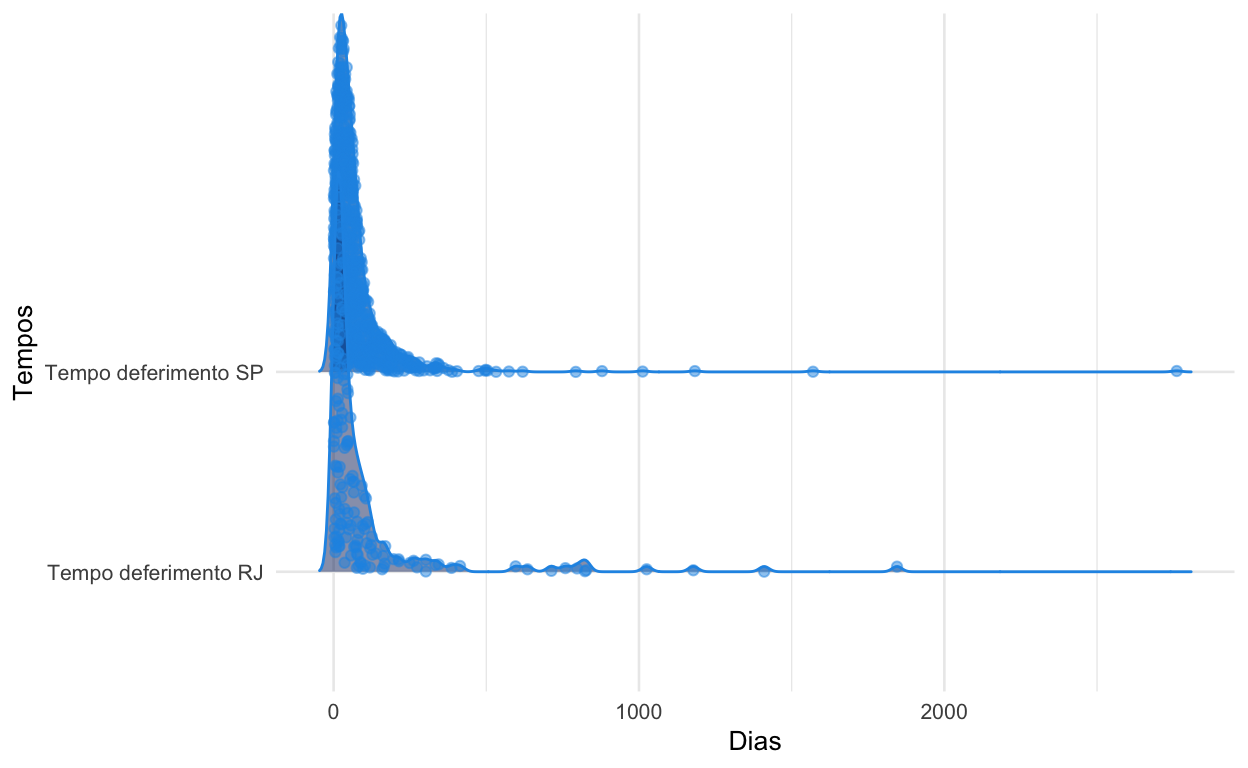
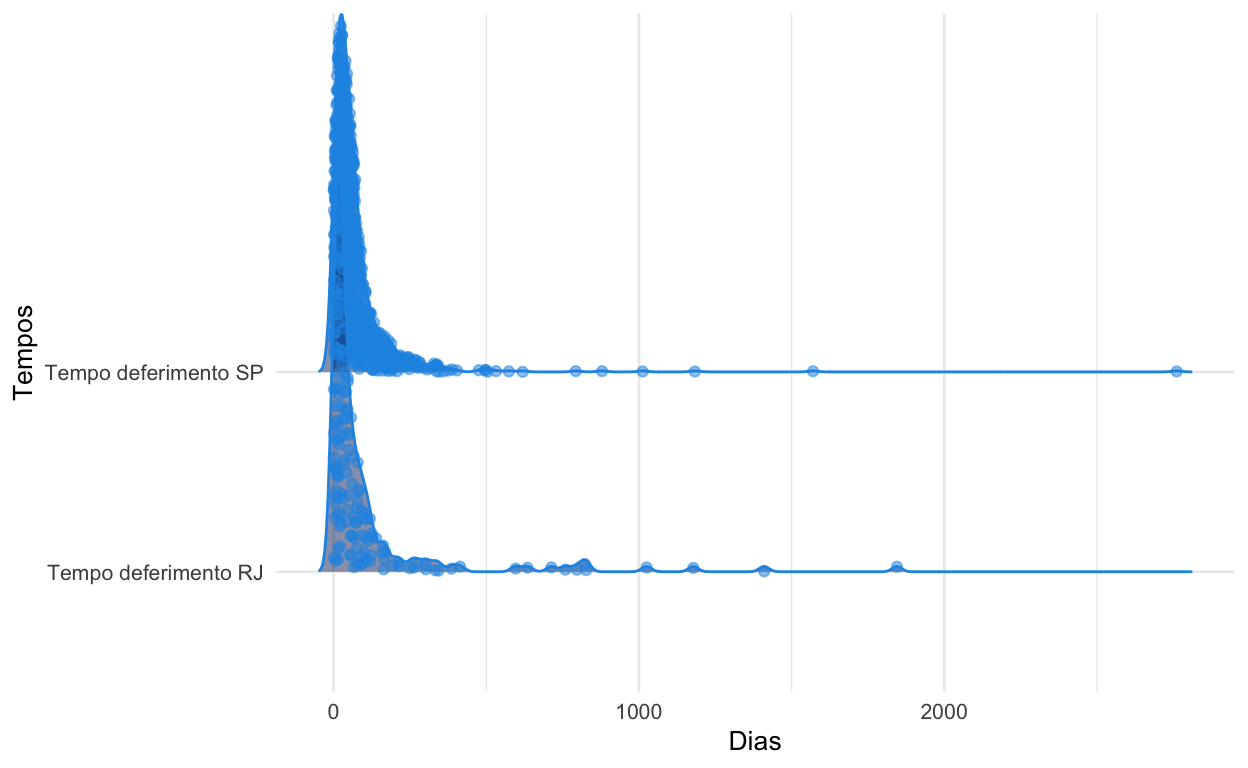
renomeia chunk sem caracteres especiais

diff --git a/_posts/2021-11-30-comparativo-rj-sp/comparativo_sp_rj.html b/_posts/2021-11-30-comparativo-rj-sp/comparativo_sp_rj.html
@@ -112,12 +112,12 @@ code span.wa { color: #5e5e5e; font-style: italic; } /* Warning */
   <!--radix_placeholder_rmarkdown_metadata-->
 
   <script type="text/json" id="radix-rmarkdown-metadata">
-  {"type":"list","attributes":{"names":{"type":"character","attributes":{},"value":["title","description","author","date","categories","output"]}},"value":[{"type":"character","attributes":{},"value":["Estudo Comparativo entre o OBS/SP e OBS/RJ"]},{"type":"character","attributes":{},"value":["Este artigo tem como objetivo realizar uma analise comparativa entre os observatorio de Recuperação Judicial no Estado de São Paulo e Rio de Janeiro. \n"]},{"type":"list","attributes":{},"value":[{"type":"list","attributes":{"names":{"type":"character","attributes":{},"value":["name","url"]}},"value":[{"type":"character","attributes":{},"value":["João Torquato"]},{"type":"character","attributes":{},"value":["https://www.linkedin.com/in/jo%C3%A3o-marcelo-torquato-157b0a16a/"]}]}]},{"type":"character","attributes":{},"value":["2021-11-30"]},{"type":"character","attributes":{},"value":["Analises"]},{"type":"list","attributes":{"names":{"type":"character","attributes":{},"value":["distill::distill_article"]}},"value":[{"type":"list","attributes":{"names":{"type":"character","attributes":{},"value":["self_contained"]}},"value":[{"type":"logical","attributes":{},"value":[false]}]}]}]}
+  {"type":"list","attributes":{"names":{"type":"character","attributes":{},"value":["title","description","author","date","categories","output"]}},"value":[{"type":"character","attributes":{},"value":["Estudo Comparativo entre o OBS/SP e OBS/RJ"]},{"type":"character","attributes":{},"value":["Este artigo tem como objetivo realizar uma analise comparativa entre os observatorio de Recuperação Judicial no Estado de São Paulo e Rio de Janeiro.\n"]},{"type":"list","attributes":{},"value":[{"type":"list","attributes":{"names":{"type":"character","attributes":{},"value":["name","url"]}},"value":[{"type":"character","attributes":{},"value":["João Torquato"]},{"type":"character","attributes":{},"value":["https://www.linkedin.com/in/jo%C3%A3o-marcelo-torquato-157b0a16a/"]}]}]},{"type":"character","attributes":{},"value":["2021-11-30"]},{"type":"character","attributes":{},"value":["Analises"]},{"type":"list","attributes":{"names":{"type":"character","attributes":{},"value":["distill::distill_article"]}},"value":[{"type":"list","attributes":{"names":{"type":"character","attributes":{},"value":["self_contained"]}},"value":[{"type":"logical","attributes":{},"value":[false]}]}]}]}
   </script>
   <!--/radix_placeholder_rmarkdown_metadata-->
   
   <script type="text/json" id="radix-resource-manifest">
-  {"type":"character","attributes":{},"value":["comparativo_sp_rj_files/figure-html5/Desfecho plano Rio de Janeiro-1.png","comparativo_sp_rj_files/figure-html5/Desfecho plano São Paulo-1.png","comparativo_sp_rj_files/figure-html5/Desfecho processo Rio de Janeiro-1.png","comparativo_sp_rj_files/figure-html5/Desfecho processo São Paulo-1.png","comparativo_sp_rj_files/figure-html5/Tempo-Deferimento-1.png"]}
+  {"type":"character","attributes":{},"value":["comparativo_sp_rj_files/anchor-4.2.2/anchor.min.js","comparativo_sp_rj_files/bowser-1.9.3/bowser.min.js","comparativo_sp_rj_files/distill-2.2.21/template.v2.js","comparativo_sp_rj_files/figure-html5/Desfecho plano Rio de Janeiro-1.png","comparativo_sp_rj_files/figure-html5/Desfecho plano São Paulo-1.png","comparativo_sp_rj_files/figure-html5/Desfecho plano SP-1.png","comparativo_sp_rj_files/figure-html5/Desfecho processo Rio de Janeiro-1.png","comparativo_sp_rj_files/figure-html5/Desfecho processo São Paulo-1.png","comparativo_sp_rj_files/figure-html5/Desfecho processo SP-1.png","comparativo_sp_rj_files/figure-html5/Tempo-Deferimento-1.png","comparativo_sp_rj_files/header-attrs-2.11/header-attrs.js","comparativo_sp_rj_files/jquery-3.6.0/jquery-3.6.0.js","comparativo_sp_rj_files/jquery-3.6.0/jquery-3.6.0.min.js","comparativo_sp_rj_files/jquery-3.6.0/jquery-3.6.0.min.map","comparativo_sp_rj_files/popper-2.6.0/popper.min.js","comparativo_sp_rj_files/tippy-6.2.7/tippy-bundle.umd.min.js","comparativo_sp_rj_files/tippy-6.2.7/tippy-light-border.css","comparativo_sp_rj_files/tippy-6.2.7/tippy.css","comparativo_sp_rj_files/tippy-6.2.7/tippy.umd.min.js","comparativo_sp_rj_files/webcomponents-2.0.0/webcomponents.js"]}
   </script>
   <!--radix_placeholder_navigation_in_header-->
   <!--/radix_placeholder_navigation_in_header-->
@@ -1544,7 +1544,7 @@ code span.wa { color: #5e5e5e; font-style: italic; } /* Warning */
 <h3 id="desfecho-plano">Desfecho plano</h3>
 <p>Neste tópico vão ser analisadas as informações compiladas relacionadas ao desfecho das negociações referentes ao plano de Recuperação Judicial, o plano desenvolve a função fundamental para a reestruturação da empresa. Nele vão ser detalhados todos as informações da situação financeira da empresa, os créditos que estão sendo discutidos nos processos e as medidas que irão ser tomadas a fim de estruturar a empresa, com o intuito de superar a crise. Nos gráficos abaixo vamos analisar os resultados dessas discussões. Vale a pena ressaltar que os gráficos resumem as quatro variáveis que mais apareceram nos casos analisados.</p>
 <div class="layout-chunk" data-layout="l-body">
-<p><img src="comparativo_sp_rj_files/figure-html5/Desfecho%20plano%20Sa%CC%83o%20Paulo-1.png" width="624" style="display: block; margin: auto;" /></p>
+<p><img src="comparativo_sp_rj_files/figure-html5/Desfecho%20plano%20SP-1.png" width="624" style="display: block; margin: auto;" /></p>
 </div>
 <p>No Estado de São Paulo assim como no Rio de Janeiro é possível se verificar que, liderando as taxas temos os processos onde os planos foram aprovados, o primeiro estado possui uma taxa de 71,5% de aprovação, enquanto o segundo a taxa sobe para 84,1%, o que é um alívio uma vez que é o curso natural do processo a aprovação do plano. Em segundo lugar é válido pontuar a taxa de indeferimento dos planos, em São Paulo a taxa de reprovação do plano é de 7%, enquanto no Rio de Janeiro cai para 4.4%. Contudo nos dois gráficos temos 2 taxas que destoam entre os Estados, em primeiro lugar temos São Paulo temos processos que convolaram em falência antes da primeira AGC, representando 14,7% dos casos. Essa taxa pode ser interpretada como um sinal que evidencia que as empresas estão entrando com o pedido de recuperação tarde demais, no sentido de que a empresa se encontra em uma situação tão delicada que mesmo com os benefícios concedidos no deferimento, ela não possui ativo ou meios para se manter em funcionamento.</p>
 <div class="layout-chunk" data-layout="l-body">
@@ -1554,7 +1554,7 @@ code span.wa { color: #5e5e5e; font-style: italic; } /* Warning */
 <h3 id="o-defecho-do-processo">O defecho do processo:</h3>
 <p>Os gráficos abaixo demonstram os dados coletados no que diz respeito aos desfechos das dos processos onde o pedido de RJ foi deferido e tiveram seus planos aprovados. Em primeiro lugar, temos os dados do Estado de São Paulo, nesse sentido é possível verificar que 55,1% dos casos analisados ainda estão em curso, nisso se enquadram processos onde estão cumprindo o plano . Em segundo temos os processos encerrados, que estão divididos em 2 categorias, processos que se encerraram com a recuperação da empresa, essa representa 24,4% dos casos no estado de São Paulo, por outro lado processos em que a convolação em falência representam 20,5% casos.</p>
 <div class="layout-chunk" data-layout="l-body">
-<p><img src="comparativo_sp_rj_files/figure-html5/Desfecho%20processo%20Sa%CC%83o%20Paulo-1.png" width="624" style="display: block; margin: auto;" /></p>
+<p><img src="comparativo_sp_rj_files/figure-html5/Desfecho%20processo%20SP-1.png" width="624" style="display: block; margin: auto;" /></p>
 </div>
 <p>Já por outro lado, em seu Estado vizinho, Rio de Janeiro, apesar do comportamento ser bem similar existem algumas diferenças, em primeiro lugar ainda temos os casos que se encontram ativos e ainda não encerraram o comprimento do plano representando uma taxa de 75,3% dos casos. Em seguida, assim como São Paulo, temos os casos encerrados, novamente, em 2 categorias. Os casos que se encerraram sem falência, casos onde houve o cumprimento do plano representam a porcentagem de 24,2%% dos casos, e por fim temos os casos que acabaram com o processo falimentar da empresa representando 3,5% dos casos.</p>
 <div class="layout-chunk" data-layout="l-body">

diff --git a/docs/posts/2021-11-30-comparativo-rj-sp/index.html b/docs/posts/2021-11-30-comparativo-rj-sp/index.html
@@ -136,7 +136,7 @@ code span.wa { color: #5e5e5e; font-style: italic; } /* Warning */
 <!--/radix_placeholder_rmarkdown_metadata-->
   
   <script type="text/json" id="radix-resource-manifest">
-  {"type":"character","attributes":{},"value":["comparativo_sp_rj_files/figure-html5/Desfecho plano Rio de Janeiro-1.png","comparativo_sp_rj_files/figure-html5/Desfecho plano São Paulo-1.png","comparativo_sp_rj_files/figure-html5/Desfecho processo Rio de Janeiro-1.png","comparativo_sp_rj_files/figure-html5/Desfecho processo São Paulo-1.png","comparativo_sp_rj_files/figure-html5/Tempo-Deferimento-1.png"]}
+  {"type":"character","attributes":{},"value":["comparativo_sp_rj_files/anchor-4.2.2/anchor.min.js","comparativo_sp_rj_files/bowser-1.9.3/bowser.min.js","comparativo_sp_rj_files/distill-2.2.21/template.v2.js","comparativo_sp_rj_files/figure-html5/Desfecho plano Rio de Janeiro-1.png","comparativo_sp_rj_files/figure-html5/Desfecho plano São Paulo-1.png","comparativo_sp_rj_files/figure-html5/Desfecho plano SP-1.png","comparativo_sp_rj_files/figure-html5/Desfecho processo Rio de Janeiro-1.png","comparativo_sp_rj_files/figure-html5/Desfecho processo São Paulo-1.png","comparativo_sp_rj_files/figure-html5/Desfecho processo SP-1.png","comparativo_sp_rj_files/figure-html5/Tempo-Deferimento-1.png","comparativo_sp_rj_files/header-attrs-2.11/header-attrs.js","comparativo_sp_rj_files/jquery-3.6.0/jquery-3.6.0.js","comparativo_sp_rj_files/jquery-3.6.0/jquery-3.6.0.min.js","comparativo_sp_rj_files/jquery-3.6.0/jquery-3.6.0.min.map","comparativo_sp_rj_files/popper-2.6.0/popper.min.js","comparativo_sp_rj_files/tippy-6.2.7/tippy-bundle.umd.min.js","comparativo_sp_rj_files/tippy-6.2.7/tippy-light-border.css","comparativo_sp_rj_files/tippy-6.2.7/tippy.css","comparativo_sp_rj_files/tippy-6.2.7/tippy.umd.min.js","comparativo_sp_rj_files/webcomponents-2.0.0/webcomponents.js"]}
   </script>
   <!--radix_placeholder_navigation_in_header-->
 <meta name="distill:offset" content="../.."/>
@@ -2233,7 +2233,7 @@ gtag('config', 'UA-182605574-1');
 <h3 id="desfecho-plano">Desfecho plano</h3>
 <p>Neste tópico vão ser analisadas as informações compiladas relacionadas ao desfecho das negociações referentes ao plano de Recuperação Judicial, o plano desenvolve a função fundamental para a reestruturação da empresa. Nele vão ser detalhados todos as informações da situação financeira da empresa, os créditos que estão sendo discutidos nos processos e as medidas que irão ser tomadas a fim de estruturar a empresa, com o intuito de superar a crise. Nos gráficos abaixo vamos analisar os resultados dessas discussões. Vale a pena ressaltar que os gráficos resumem as quatro variáveis que mais apareceram nos casos analisados.</p>
 <div class="layout-chunk" data-layout="l-body">
-<p><img src="comparativo_sp_rj_files/figure-html5/Desfecho%20plano%20Sa%CC%83o%20Paulo-1.png" width="624" style="display: block; margin: auto;" /></p>
+<p><img src="comparativo_sp_rj_files/figure-html5/Desfecho%20plano%20SP-1.png" width="624" style="display: block; margin: auto;" /></p>
 </div>
 <p>No Estado de São Paulo assim como no Rio de Janeiro é possível se verificar que, liderando as taxas temos os processos onde os planos foram aprovados, o primeiro estado possui uma taxa de 71,5% de aprovação, enquanto o segundo a taxa sobe para 84,1%, o que é um alívio uma vez que é o curso natural do processo a aprovação do plano. Em segundo lugar é válido pontuar a taxa de indeferimento dos planos, em São Paulo a taxa de reprovação do plano é de 7%, enquanto no Rio de Janeiro cai para 4.4%. Contudo nos dois gráficos temos 2 taxas que destoam entre os Estados, em primeiro lugar temos São Paulo temos processos que convolaram em falência antes da primeira AGC, representando 14,7% dos casos. Essa taxa pode ser interpretada como um sinal que evidencia que as empresas estão entrando com o pedido de recuperação tarde demais, no sentido de que a empresa se encontra em uma situação tão delicada que mesmo com os benefícios concedidos no deferimento, ela não possui ativo ou meios para se manter em funcionamento.</p>
 <div class="layout-chunk" data-layout="l-body">
@@ -2243,7 +2243,7 @@ gtag('config', 'UA-182605574-1');
 <h3 id="o-defecho-do-processo">O defecho do processo:</h3>
 <p>Os gráficos abaixo demonstram os dados coletados no que diz respeito aos desfechos das dos processos onde o pedido de RJ foi deferido e tiveram seus planos aprovados. Em primeiro lugar, temos os dados do Estado de São Paulo, nesse sentido é possível verificar que 55,1% dos casos analisados ainda estão em curso, nisso se enquadram processos onde estão cumprindo o plano . Em segundo temos os processos encerrados, que estão divididos em 2 categorias, processos que se encerraram com a recuperação da empresa, essa representa 24,4% dos casos no estado de São Paulo, por outro lado processos em que a convolação em falência representam 20,5% casos.</p>
 <div class="layout-chunk" data-layout="l-body">
-<p><img src="comparativo_sp_rj_files/figure-html5/Desfecho%20processo%20Sa%CC%83o%20Paulo-1.png" width="624" style="display: block; margin: auto;" /></p>
+<p><img src="comparativo_sp_rj_files/figure-html5/Desfecho%20processo%20SP-1.png" width="624" style="display: block; margin: auto;" /></p>
 </div>
 <p>Já por outro lado, em seu Estado vizinho, Rio de Janeiro, apesar do comportamento ser bem similar existem algumas diferenças, em primeiro lugar ainda temos os casos que se encontram ativos e ainda não encerraram o comprimento do plano representando uma taxa de 75,3% dos casos. Em seguida, assim como São Paulo, temos os casos encerrados, novamente, em 2 categorias. Os casos que se encerraram sem falência, casos onde houve o cumprimento do plano representam a porcentagem de 24,2%% dos casos, e por fim temos os casos que acabaram com o processo falimentar da empresa representando 3,5% dos casos.</p>
 <div class="layout-chunk" data-layout="l-body">
